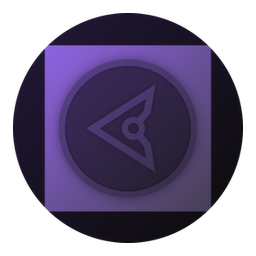
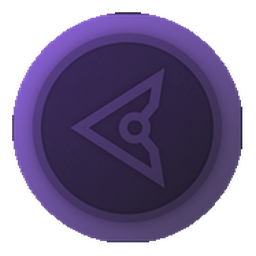
Re-mask every ladder badge to a true disc
The badges read as framed squares in Discord and the cause was inside the
circle, not outside it. Three separate defects, found in that order, each hidden
by the measurement that had just "passed":

1. A bright square plate painted inside the circular alpha mask. The bright ring
   sat at r=81 on the axes and r=114 on the diagonals -- a ratio of sqrt(2),
   the signature of a square. Ten badges. The margin test could not see it
   because the alpha silhouette was round the whole time.

2. The same plate on five more badges (Adept, Hacker, SAGE, VANGUARD,
   Visionary), but *dark*: the axes read dark and the diagonals bright, so the
   luminance-threshold detector found the brightest band on the diagonals and
   scored them 1.7-2.4, outside the sqrt(2) window. They are now detected by
   rim contrast instead: 0.78 against 0.00-0.12 for every healthy badge.

3. Nothing in the pixels, but the checks were wrong twice over. The margin test
   only sampled the outermost row and column, which says nothing about a disc
   drawn in the middle of the canvas; and a corner-sampling probe I wrote
   reported all 21 badges as opaque because the sample boxes overlapped the
   disc.

All 15 plated badges are re-masked to a disc at the measured inner edge of the
plate, inset to 90% and re-padded, so the only edge left is a circle. The other
six were already concentric and are copied through untouched. Verification, on
[…]

diff --git a/apps/bot/src/ladder_icons.rs b/apps/bot/src/ladder_icons.rs
@@ -358,6 +358,153 @@ mod tests {
         Some(diagonal_max / axis_min.max(1.0))
     }
 
+    /// Every opaque pixel must sit inside the inscribed circle.
+    ///
+    /// This is the check that the other two could not make. The margin test
+    /// samples the outermost row and column, so it passes when the artwork covers
+    /// only the middle of the canvas and leaves a wide transparent border -- a
+    /// disc of radius R inside a canvas of radius 2R has a clean outer ring and
+    /// still shows square corners if anything rectangular survives at radius R.
+    ///
+    /// Formulated as "furthest opaque pixel from the centre, over half the alpha
+    /// bounding box", because that is true of a disc and false of a square
+    /// regardless of scale: a square's corners reach sqrt(2) times its half-side.
+    #[test]
+    fn every_opaque_pixel_lies_inside_the_inscribed_circle() {
+        for rung in iam::domain::leveling::LADDER.iter() {
+            let bytes = badge(rung.name)
+                .map(|b| b.png)
+                .unwrap_or_else(|| panic!("{} has no embedded badge", rung.name));
+
+            let (width, height, rgba) = decode_rgba(bytes)
+                .unwrap_or_else(|| panic!("{}: could not decode the PNG", rung.name));
+
+            let opaques: Vec<(usize, usize)> = (0..height)
+                .flat_map(|y| (0..width).map(move |x| (x, y)))
+                .filter(|(x, y)| rgba[(y * width + x) * 4 + 3] > 8)
+                .collect();
+
+            let (min_x, max_x) = opaques
+                .iter()
+                .fold((usize::MAX, 0), |(lo, hi), (x, _)| (lo.min(*x), hi.max(*x)));
+            let (min_y, max_y) = opaques
+                .iter()
+                .fold((usize::MAX, 0), |(lo, hi), (_, y)| (lo.min(*y), hi.max(*y)));
+
+            let centre_x = (min_x + max_x) as f32 / 2.0;
+            let centre_y = (min_y + max_y) as f32 / 2.0;
+            let radius = ((max_x - min_x).max(max_y - min_y)) as f32 / 2.0;
+
+            let worst = opaques
+                .iter()
+                .map(|(x, y)| {
+                    let dx = *x as f32 - centre_x;
+                    let dy = *y as f32 - centre_y;
+                    (dx * dx + dy * dy).sqrt()
+                })
+                .fold(0.0_f32, f32::max);
+
+            assert!(
+                worst <= radius * 1.06,
+                "{}: an opaque pixel sits {worst:.1}px from the centre but the \
+                 inscribed circle is only {radius:.1}px -- that is a corner, so the \
+                 artwork contains a square. A disc never exceeds its own radius.",
+                rung.name
+            );
+        }
+    }
+
+    /// The rim must be the same colour all the way round.
+    ///
+    /// The third defect, and the one both earlier checks missed. Five badges
+    /// carried a dark square panel bolted over the disc: bright along the
+    /// diagonals where its corners sat, dark along the axes where its straight
+    /// edges left the disc's own rim showing as a lens-shaped sliver. The alpha
+    /// silhouette stayed perfectly round and the brightest band was still found
+    /// on the diagonals, so the margin and plate tests both passed while the
+    /// badge plainly read as a framed square.
+    ///
+    /// Measured as the brightness gap between the diagonal rim and the axis rim,
+    /// relative to the brighter of the two. A circle is uniform (the 16 healthy
+    /// badges score 0.00-0.12); a panel with corners on the diagonals scores
+    /// about 0.78.
+    #[test]
+    fn no_badge_has_a_panel_that_only_lights_its_diagonals() {
+        for rung in iam::domain::leveling::LADDER.iter() {
+            let bytes = badge(rung.name)
+                .map(|b| b.png)
+                .unwrap_or_else(|| panic!("{} has no embedded badge", rung.name));
+
+            let Some(contrast) = rim_contrast(bytes) else {
+                continue;
+            };
+
+            assert!(
+                contrast <= 0.25,
+                "{}: the rim is {contrast:.2} brighter on the diagonals than on the \
+                 axes (0.00 is a uniform circle). A square panel's corners sit on the \
+                 diagonals, so this badge reads as a framed square. Re-mask it.",
+                rung.name
+            );
+        }
+    }
+
+    /// Brightness difference between the diagonal rim and the axis rim, over the
+    /// brighter of the two, sampled in the outer band of the artwork.
+    fn rim_contrast(png: &[u8]) -> Option<f32> {
+        let (width, height, rgba) = decode_rgba(png)?;
+
+        let opaque: Vec<(usize, usize)> = (0..height)
+            .flat_map(|y| (0..width).map(move |x| (x, y)))
+            .filter(|(x, y)| rgba[(y * width + x) * 4 + 3] > 200)
+            .collect();
+        if opaque.is_empty() {
+            return None;
+        }
+
+        let min_x = opaque.iter().map(|(x, _)| *x).min()?;
+        let max_x = opaque.iter().map(|(x, _)| *x).max()?;
+        let min_y = opaque.iter().map(|(_, y)| *y).min()?;
+        let max_y = opaque.iter().map(|(_, y)| *y).max()?;
+        let centre_x = (min_x + max_x) as f32 / 2.0;
+        let centre_y = (min_y + max_y) as f32 / 2.0;
+        let radius = ((max_x - min_x).max(max_y - min_y)) as f32 / 2.0;
+
+        let band = |degrees: f32| -> Option<f32> {
+            let radians = degrees.to_radians();
+            let mut total = 0.0f32;
+            let mut count = 0u32;
+            let low = (radius * 0.72) as usize;
+            let high = (radius * 0.97) as usize;
+            for step in low..=high {
+                let x = (centre_x + step as f32 * radians.cos()) as usize;
+                let y = (centre_y + step as f32 * radians.sin()) as usize;
+                if x >= width || y >= height {
+                    continue;
+                }
+                let offset = (y * width + x) * 4;
+                if rgba[offset + 3] > 200 {
+                    total += (u32::from(rgba[offset])
+                        + u32::from(rgba[offset + 1])
+                        + u32::from(rgba[offset + 2])) as f32
+                        / 3.0;
+                    count += 1;
+                }
+            }
+            (count > 0).then(|| total / count as f32)
+        };
+
+        let mean = |angles: [f32; 4]| -> Option<f32> {
+            let values: Vec<f32> = angles.iter().filter_map(|d| band(*d)).collect();
+            (!values.is_empty()).then(|| values.iter().sum::<f32>() / values.len() as f32)
+        };
+
+        let axes = mean([0.0, 90.0, 180.0, 270.0])?;
+        let diagonals = mean([45.0, 135.0, 225.0, 315.0])?;
+
+        Some((diagonals - axes).abs() / axes.max(diagonals).max(1.0))
+    }
+
     #[test]
     fn every_rung_has_a_badge() {
         assert_eq!(
